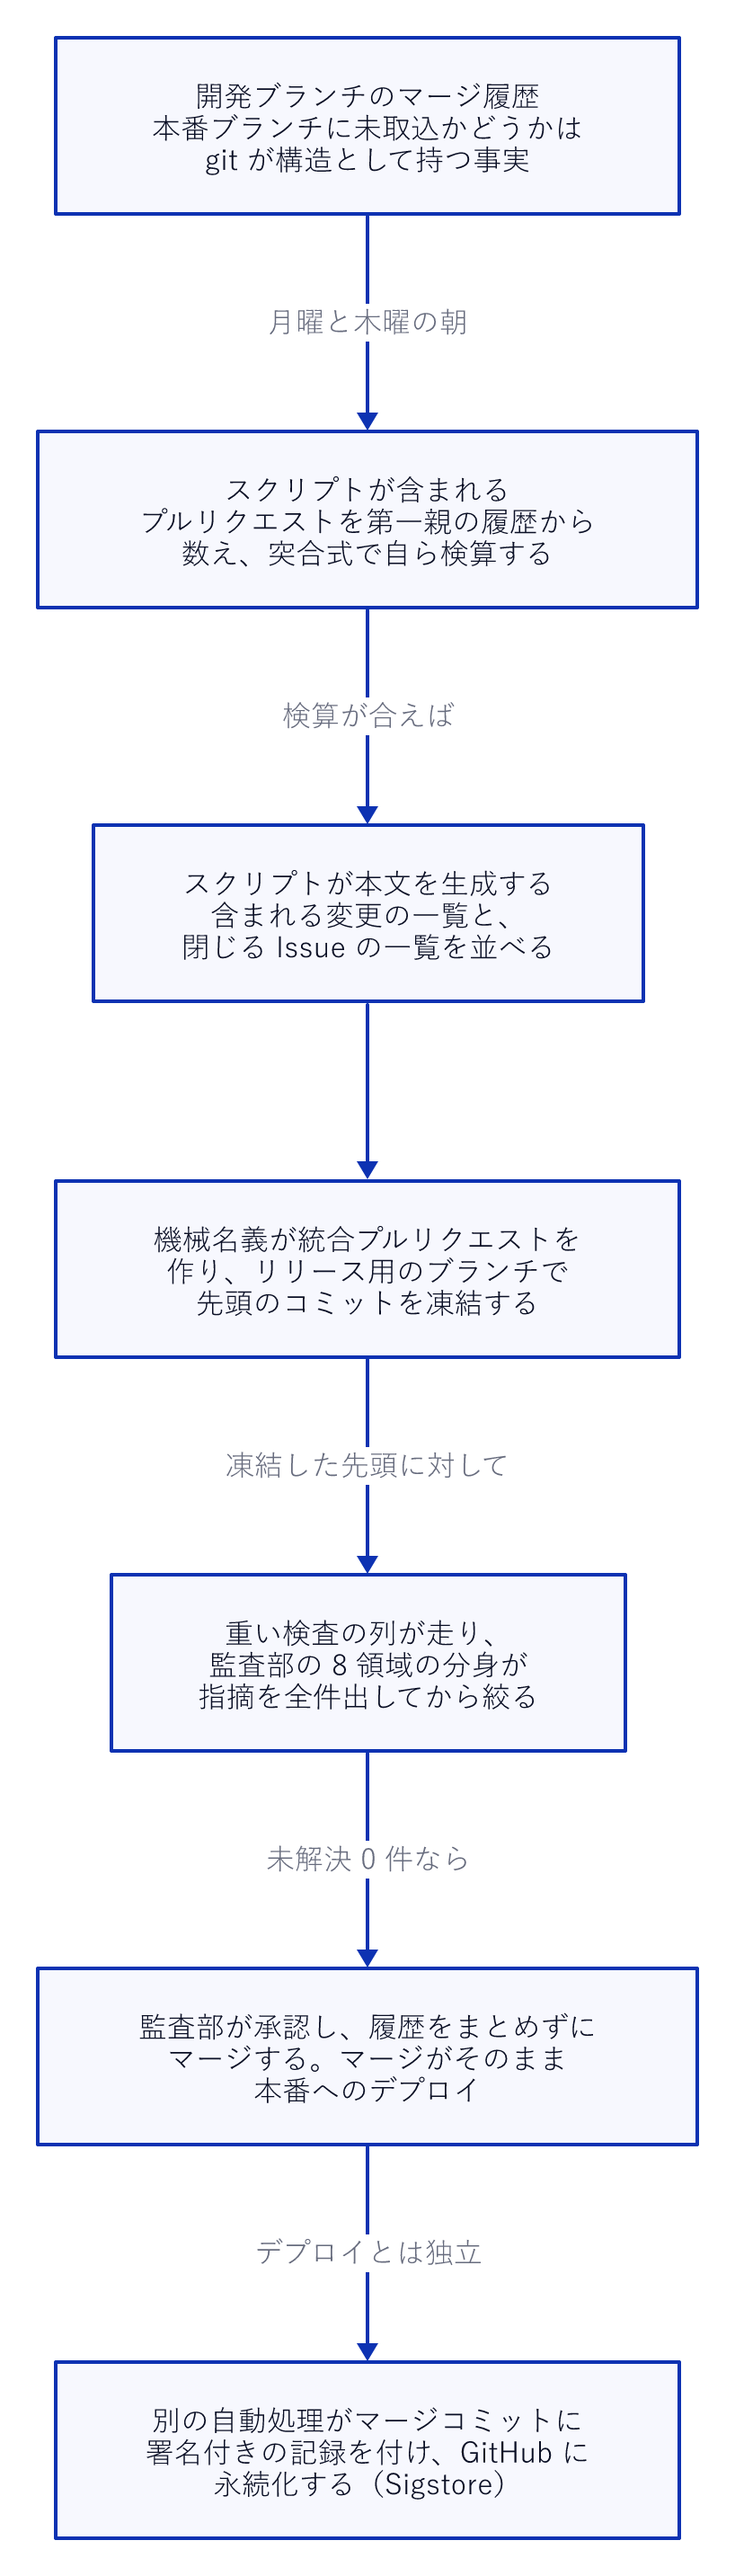
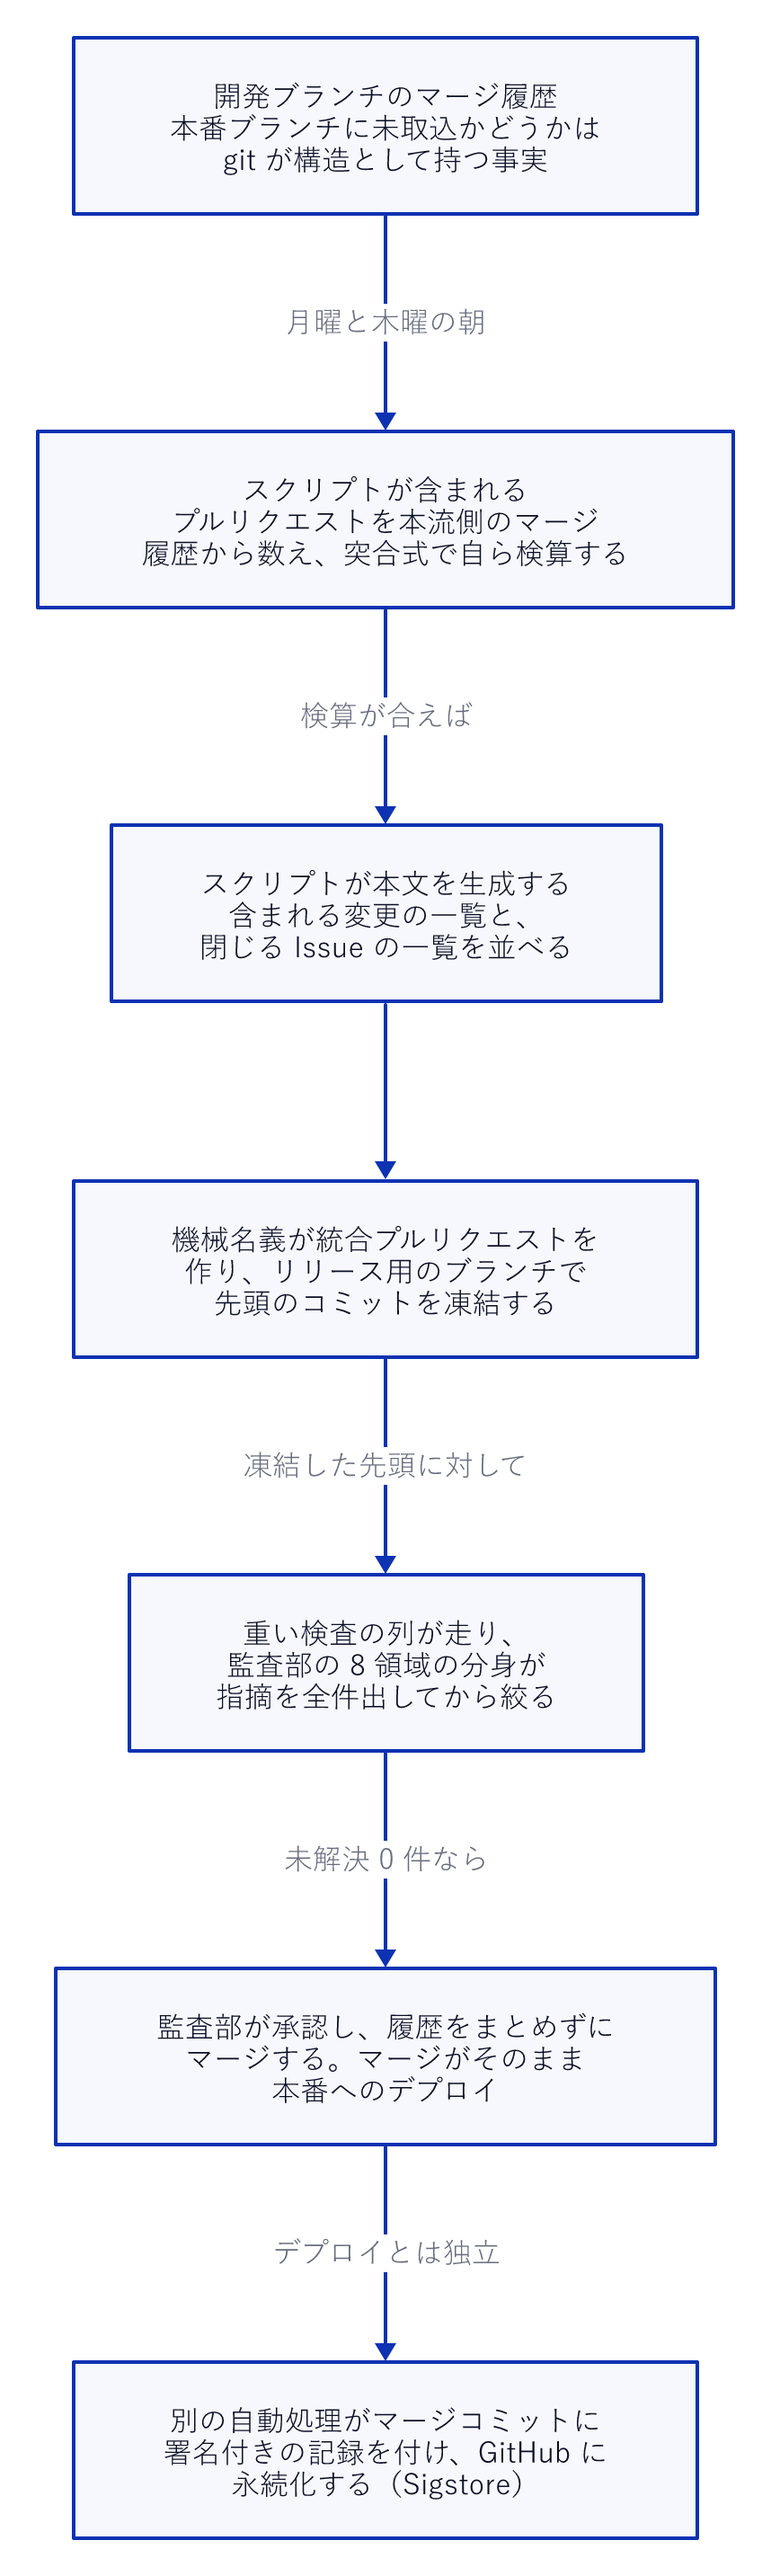
docs(book): 改訂 4 — 第Ⅶ部・第Ⅷ部の査読指摘を反映する
何を:
- 第Ⅶ部-1: 履歴の掃除と強制プッシュの事故を 2 つの失敗に分け、図に「GitHub そのもの」の行き先を足した
- 第Ⅶ部-2: 「戻しマージ」の宣言にリポジトリ名（back-merge）を添えて図より前に移し、動く標的と Issue の滞留を 5 段に揃えた
- 第Ⅶ部-3: 1 日の本数を実測に合わせ、本流側の履歴（--first-parent）を定義し、「見送る」を「見合わせる」に
- 第Ⅶ部-4: e2e-matrix の説明を実体（実行モード × プラン）に直し、web-flow・24 の種類・7 本と 8 本・5 段の順序を直した
- 第Ⅷ部-2: Bedrock の事故を「素の識別子ではオンデマンドの呼び出しが拒まれる」に直し、出典に無い理由と冒頭の予告を削った
- 第Ⅷ部-3: 持ち帰るものを原則から導ける最初の 1 手 3 つに置き換えた / 第Ⅷ部-4: 版の履歴を語る文を削った
- live-ui-verification の呼び名を「実機の確認のスキル」に揃えた

何のために:
- 査読報告（tmp/briefs/reports/p78-review.md）の [止める] 2 件と [直す] 全件、妥当な [任意] を反映するため

検証:
- 担当 8 章で textlint / check-terms（T4）/ check-zenn（Z13）/ check-diagrams: errors 0、warnings 0
- 図 3 枚を描き直して PNG を確認

diff --git a/books/ganbari-quest-design/monorepo-and-artifacts.md b/books/ganbari-quest-design/monorepo-and-artifacts.md
@@ -20,7 +20,7 @@ title: "第Ⅶ部-1　1 つのリポジトリと生成物の置き場 ― 生成
 
 生成物の行き先を、判断の順に図で示します。
 
-![生成AIの生成物を「参照され続けるか」「証跡か」で振り分け、本番ブランチ・証跡用のブランチ・一時ディレクトリの 3 つへ送り、不要になれば履歴からも消す流れ](/images/ganbari-quest-design/monorepo-and-artifacts.png)
+![生成AIの生成物の行き先。参照され続けるものは本番ブランチへ、スクリーンショットの証跡は証跡用のブランチへ、本文に載せる証跡は GitHub そのものへ送る。残りは一時ディレクトリに置き、不要になれば履歴からも消す](/images/ganbari-quest-design/monorepo-and-artifacts.png)
 
 1 つ目は本番ブランチです。設計書、設計判断の記録、手順書、そして [第Ⅵ部-4](graphify) で見たナレッジグラフの出力 `graphify-out/`。「現状の正解」として、この先も参照され続けるものです。
 
@@ -36,19 +36,29 @@ title: "第Ⅶ部-1　1 つのリポジトリと生成物の置き場 ― 生成
 
 `.gitignore` には、こういう注記があります。ロゴの候補は `git filter-repo` で履歴から削除した。一時的なスクリーンショット、旧いプルリクエストの画像、持ち主のいない音声ファイルは履歴から抹消済みで、本番ブランチでの追跡を禁止する[^gitignore]。
 
-2026 年 4 月 4 日に、不要なファイルとディレクトリの削除と、履歴からの除去が行われました。[第Ⅵ部-2](design-doc-ssot) で見た最初の入力 `docs/input/first-input.md` は、このとき消えました。4 月 24 日には、[第Ⅱ部-17](image-assets) で見たロゴ候補 18 枚のディレクトリが、`git filter-repo` で履歴ごと削除されました。画像資産の目録がそのディレクトリを参照し続けているのに本番ブランチに無いのは、このためです[^issue1443]。
+同じ 2026 年 4 月に、履歴をめぐる判断が 2 つありました。履歴を書き換えて生成物を消す判断と、履歴の書き換えで修正が消えるのを防ぐ判断です。矛盾ではなく、同じ問題の両面です。
 
 **狙い。** 生成AIが作った生成物のうち、不要になったものをリポジトリから消す。追跡をやめるだけでなく履歴からも消して、複製するすべての人の負担を減らす。
 
-**起きたこと。** 履歴の書き換えは、リポジトリ全体の強制プッシュです。その 6 日後の 4 月 30 日、強制プッシュで致命的な修正のコミットが消えた事故を、設計判断の記録として残すことになりました。あるプルリクエストで、品質保証部の再レビューが 2 度同じ欠陥を検出しました。調べると、遠隔側の先頭は強制プッシュされていて、1 度目の修正が完全に消えていました[^adr26]。
+**起きたこと。** 4 月 4 日に、不要なファイルとディレクトリの削除と、履歴からの除去が行われました。[第Ⅵ部-2](design-doc-ssot) で見た最初の入力 `docs/input/first-input.md` は、このとき消えました。4 月 24 日には、[第Ⅱ部-17](image-assets) で見たロゴ候補 18 枚のディレクトリが、`git filter-repo` で履歴ごと削除されました。画像資産の目録がそのディレクトリを参照し続けているのに本番ブランチに無いのは、このためです[^issue1443]。履歴の書き換えは、リポジトリ全体の強制プッシュです。このリポジトリは公開されているので、書き換えた履歴は、複製した人の履歴と食い違います。
 
-**なぜ。** 生成物を消す操作と、修正を消す操作は、同じ操作です。生成AIは生成物を大量に作り、不要になったものは履歴からも消したくなります。しかし同じ操作が、必要なものも消します。
+**なぜ。** 生成AIは生成物を大量に作り、不要になったものは履歴からも消したくなります。7 か月の間に、食い違いを気にする外部の複製は無かった、というのが実情でしょう。オーナーの見方は逆で、書き換えたことより、git で管理すべきでないファイルが多数履歴に残ってしまったこと自体が問題だ、というものです。
 
-**変えたこと。** 決定は 3 層です。GitHub のブランチ保護の規則で、最後にプッシュした人とは別の人の承認を必須にする。致命的な修正のコミットが残っていることを、自動検査で静的に確かめる。強制プッシュは `--force-with-lease` を必須にし、`--force` を禁止する。やむを得ず強制プッシュが要るときは企画部へ事前に知らせると書き、`git filter-repo` による履歴の掃除はその例外と位置づけました[^adr26]。
+**変えたこと。** 履歴の掃除は、下の決定で「やむを得ず強制プッシュが要るときは企画部へ事前に知らせる」例外の操作に位置づけられました[^adr26]。
 
 **読者のリポジトリでは。** 履歴を書き換える前に、そのリポジトリを複製している人と、まだ取り込まれていない修正が無いかを確かめてください。書き換えは、必要なものと不要なものを区別しません。
 
-このリポジトリは公開されています。公開リポジトリの履歴の書き換えは、複製した人の履歴と食い違います。7 か月の間に、それを気にする外部の複製は無かった、というのが実情でしょう。オーナーの見方は逆で、書き換えたことより、git で管理すべきでないファイルが多数履歴に残ってしまったこと自体が問題だ、というものです。
+もう 1 つは、履歴の掃除とは別のプルリクエストで起きました。
+
+**狙い。** 品質保証部の指摘を直したコミットを作業ブランチに積み、再レビューを受ける。
+
+**起きたこと。** 履歴の掃除の 6 日後の 4 月 30 日、強制プッシュで致命的な修正のコミットが消えた事故を、設計判断の記録として残すことになりました。あるプルリクエストで、品質保証部の再レビューが 2 度同じ欠陥を検出しました。調べると、GitHub 側のブランチの先頭が強制プッシュで置き換えられていて、1 度目の修正が完全に消えていました[^adr26]。
+
+**なぜ。** 生成物を消す操作と、修正を消す操作は、同じ操作です。同じ操作が、必要なものも消します。
+
+**変えたこと。** 決定は 3 層です。GitHub のブランチ保護の規則で、最後にプッシュした人とは別の人の承認を必須にする。致命的な修正のコミットが残っていることを、自動検査で静的に確かめる。強制プッシュは `--force-with-lease` を必須にし、`--force` を禁止する[^adr26]。
+
+**読者のリポジトリでは。** 強制プッシュを禁止できないなら、せめて `--force-with-lease` を必須にしてください。手元が知らない間に GitHub 側が進んでいれば、そこで止まります。
 
 ## 30 MB を 24 回コミットした
 
@@ -76,7 +86,7 @@ title: "第Ⅶ部-1　1 つのリポジトリと生成物の置き場 ― 生成
 
 - 一人と生成AIの開発なら、リポジトリは 1 つでよい。1 つのプルリクエストで全部を変えられる利益の方が、分ける利益より大きい
 - 生成AIを使い始める日に、生成物の行き先を決める。参照され続けるもの、証跡、一時的なもの、の 3 つに分ければ足りる
-- 数十 MB の再生成物を本番ブランチに置かない。履歴は差分を圧縮できず、複製するすべての人が全部の版を引く
+- 数十 MB の再生成物を本番ブランチに置かない。全面的に再生成されるファイルは差分にならず、複製するすべての人が全部の版を引く
 
 次の章では、ブランチそのものの運用を扱います。本番ブランチへのマージがそのまま本番へのデプロイである条件の下で、運用は 3 回変わりました。
 
@@ -86,7 +96,7 @@ title: "第Ⅶ部-1　1 つのリポジトリと生成物の置き場 ― 生成
 
 [^ssbranch]: 証跡用の `screenshots` ブランチ（2026-04-27 に「init: screenshots orphan branch」として作成、5,175 ファイル）。出典: [screenshots branch](https://github.com/Takenori-Kusaka/ganbari-quest/tree/screenshots)
 
-[^docsclaude]: 設計書の指示書。正本の原則と、調査資料の配置の規律。出典: [docs/CLAUDE.md](https://github.com/Takenori-Kusaka/ganbari-quest/blob/3af6c2ed9fd4fe5766fc80c255656e940f8ec8f0/docs/CLAUDE.md)
+[^docsclaude]: 設計書のディレクトリに置かれた生成AIへの指示書。正本の原則と、調査資料の配置の規律。出典: [docs/CLAUDE.md](https://github.com/Takenori-Kusaka/ganbari-quest/blob/3af6c2ed9fd4fe5766fc80c255656e940f8ec8f0/docs/CLAUDE.md)
 
 [^issue1443]: Issue #1443「docs/design/logo-candidates/ を git 履歴ごと完全削除（git filter-repo）」（2026-04-24）と、Issue #379「不要ファイル・ディレクトリの削除 + git 履歴からの除去」（2026-04-04）。出典: [Issue #1443](https://github.com/Takenori-Kusaka/ganbari-quest/issues/1443)、[Issue #379](https://github.com/Takenori-Kusaka/ganbari-quest/issues/379)
 

diff --git a/books/ganbari-quest-design/principles.md b/books/ganbari-quest-design/principles.md
@@ -6,7 +6,7 @@ title: "第Ⅷ部-3　生成AIに任せる開発の原則 ― 10 条を、根拠
 
 [要点](summary) に、本書全体から導いた原則を 10 条置きました。それぞれの条は、どの章のどの事故から来ていて、無かったときに何が起き、読者のリポジトリでは何から始めればよいのか。
 
-1 条ずつ、根拠になった章、それが無かったときに起きたこと、そして自分のリポジトリに持ち帰るときの最初の 1 手の順で展開します。原則は、書くだけでは守られません。この 10 条も、その例外ではありません。
+各条には、根拠になった章、無かったときに起きたこと、そして最初の 1 手を添えます。原則は、書くだけでは守られません。この 10 条も、その例外ではありません。
 
 ## 1. 原則は書くだけでは守られない
 
@@ -24,7 +24,7 @@ title: "第Ⅷ部-3　生成AIに任せる開発の原則 ― 10 条を、根拠
 
 根拠は [第Ⅳ部-3](maker-not-approver) です。作成は開発部のアカウント、承認とマージは品質保証部のアカウント。Claude Code のフック、プッシュ前のフック、そして GitHub 側で作成者を検査する自動処理が、違反したプルリクエストを閉じます。[第Ⅶ部-3](stacked-pr-integration) の機械名義が出すプルリクエストも、承認は人です。
 
-反例は、承認する側の滑り落ちです。承認する側の生成AIが、作成する側の生成AIに同調し、指摘を薄める。設計判断の記録がこれを「相手の主張の反復」として観測し、反対役を挟みました。分けただけでは足りず、分けた相手に反対させる構造が要りました。
+反例は、承認する側の滑り落ちです。承認する側の生成AIが、作成する側の生成AIに同調し、指摘を薄める。この現象は設計判断の記録に「相手の主張の反復」として記録され、反対役を挟むことになりました。分けただけでは足りず、分けた相手に反対させる構造が要りました。
 
 最初の 1 手は、GitHub のアカウントを 1 つ増やし、ブランチ保護の規則で「作成者は承認できない」を入れることです。
 
@@ -92,7 +92,7 @@ title: "第Ⅷ部-3　生成AIに任せる開発の原則 ― 10 条を、根拠
 
 両方をテストする。
 
-根拠は [第Ⅱ部-11](ai-suggest) の事故です。権限、環境変数、モデルの識別子のすべてが正しく、1 度も動いていなかった。[第Ⅱ部-3](design-system) の色の変数も同じで、最上位で正しく定義した値がテーマの配下では効かず、テストは「再宣言されていること」まで確かめるようになりました。設計理由の記録の 18 番は、これを「形と振る舞い」の違いとして書いています。
+根拠は [第Ⅱ部-11](ai-suggest) の事故です。権限、環境変数、モデルの識別子のすべてが正しく、1 度も動いていなかった。[第Ⅱ部-3](design-system) の色の変数も同じで、最上位で正しく定義した値がテーマの配下では効かず、テストは「再宣言されていること」まで確かめるようになりました。設計理由の記録の 1 つは、これを「形と振る舞い」の違いとして書いています。
 
 反例は、診断の 3 方向の誤りです。静的な根拠だけを見ると「不作動」に見え、応答だけを見ると「稼働」に見えました。効いているかは、実際に呼んだ結果でしか分かりません。
 
@@ -114,10 +114,10 @@ title: "第Ⅷ部-3　生成AIに任せる開発の原則 ― 10 条を、根拠
 
 ## 持ち帰るもの
 
-10 条を一度に入れることはできません。順番を 1 つ挙げるなら、こうです。
+上の「最初の 1 手」のうち、最も安い 3 つです。
 
-- まず原則 2 を入れる。アカウントを 1 つ増やして、作った者が認められない構造にする。ほかの原則が破られたとき、それを見つける側がいないと始まらない
-- 次に原則 1 を入れる。守らせたい規則を 1 つ選び、テストを 1 本書く。書いた規則が守られているかを、書いた日以降も機械が見る
-- 3 つ目に原則 4 を入れる。同じ領域の修正が 2 回続いたことに気づく仕組みを、Issue の雛形に 1 行足す
+- 指示書にある禁止事項を 1 つ選び、それを検出するテストを 1 本書く（原則 1）
+- Issue の雛形に「直近 30 日で同じ領域の修正があったか」を 1 行足す（原則 4）
+- 外部サービスを呼ぶ機能に、本番で 1 回呼んで結果の出どころを確かめる疎通確認を足す（原則 9）
 
 この 10 条は、本書を書き終えた 2026 年 9 月 16 日の正解です。書いた日の正解は、原則 1 のとおり、書いただけでは守られません。守らせる機構は、読者のリポジトリの側にあります。次の章では、終わっていないことを並べます。
